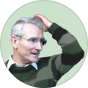
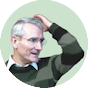
Changes to Contributors (without Rhizoome)
These changes have been uploaded to the website. The Rhizoome section is currently commented out.

diff --git a/Contributors/Contributors.htm b/Contributors/Contributors.htm
@@ -148,6 +148,13 @@
             margin: 10px 0 8px 0;
         }
 
+        hr.contributor {
+            border-style: none;
+            height: 1px;
+            background-color: #1010C6;
+            margin: 10px 0 8px 0;
+        }
+
         hr.appendixInternal {
             border-style: none;
             height: 1px;
@@ -259,12 +266,14 @@
                 </td>
                 <td class="info">
                     I've always been interested in the philosophy of time.<br />
-                    Read lots of philosophy, especially in my 20s and 30s (Russel, Popper etc.). Discovered quite late that I've always been an idealist, on encountering Hoffman (2016) and Kastrup (2022).<br />
+                    Read lots of philosophy, especially in my 20s and 30s (Russell, Popper etc.). Discovered quite late that I've always been an idealist, on encountering Hoffman (2016) and Kastrup (2022).<br />
                     I think contemporary philosophy needs an interdisciplinary component.<br />
                     It needs input from both professional philosophers (historians of philosophy) and those with direct experience of the world in other areas.<br />
                     My own experience leads me to make a sharp distinction between perceived time (as in music) and clock time (as in physics).
+                    Also, I think reading and writing are even more important than is usually imagined &mdash; their deep relations to space and time are often overlooked. For example: the glories of Western harmony, counterpoint and performance practice could not have developed without them... 
                     <div class="note" style="margin-top:10px">
-                        I Became Karlheinz Stockhausen's copyist (1974-2000) because I wanted to grapple with the 20th century music notation crisis at close quarters.<br />
+                        I Became Karlheinz Stockhausen's copyist (1974-2000) because I wanted to grapple with the 20th century music notation crisis at close quarters.
+                        In what ways are music symbols different from mathematical ones?<br />
                         Ended up in a practical job, rather than in academia, because I've always been sceptical of the institutional structures that have grown up around the Arts and Sciences.<br />
                         Began programming in 1982. After 2000, I have been programming open source applications in C# and Javascript, and maintaining a <a href="https://james-ingram-act-two.de/index.html">website</a>.<br />
                     </div>
@@ -277,7 +286,7 @@
         <h2>Contributors</h2>
         
         <div class="note">
-            Contributors must be subscribed to <a href="patreon">this project's (free) Patreon</a>. Contributions are made in a subsidiary forum (mailing list). To join or leave, join the Patreon, then follow the instructions on the Welcome page.<br />
+            Contributors must be subscribed to <a href="https://www.patreon.com/cw/JamesIngram503">this project's (free) Patreon</a>. Contributions are made in a subsidiary forum (mailing list). To join or leave, join the Patreon, then follow the instructions on the Welcome page.<br />
             The information displayed here on this page is supplied by the contributors themselves.
             <ul>
                 <li>The ID icon will be copied from Patreon. (Please tell me if the icon changes.)</li>
